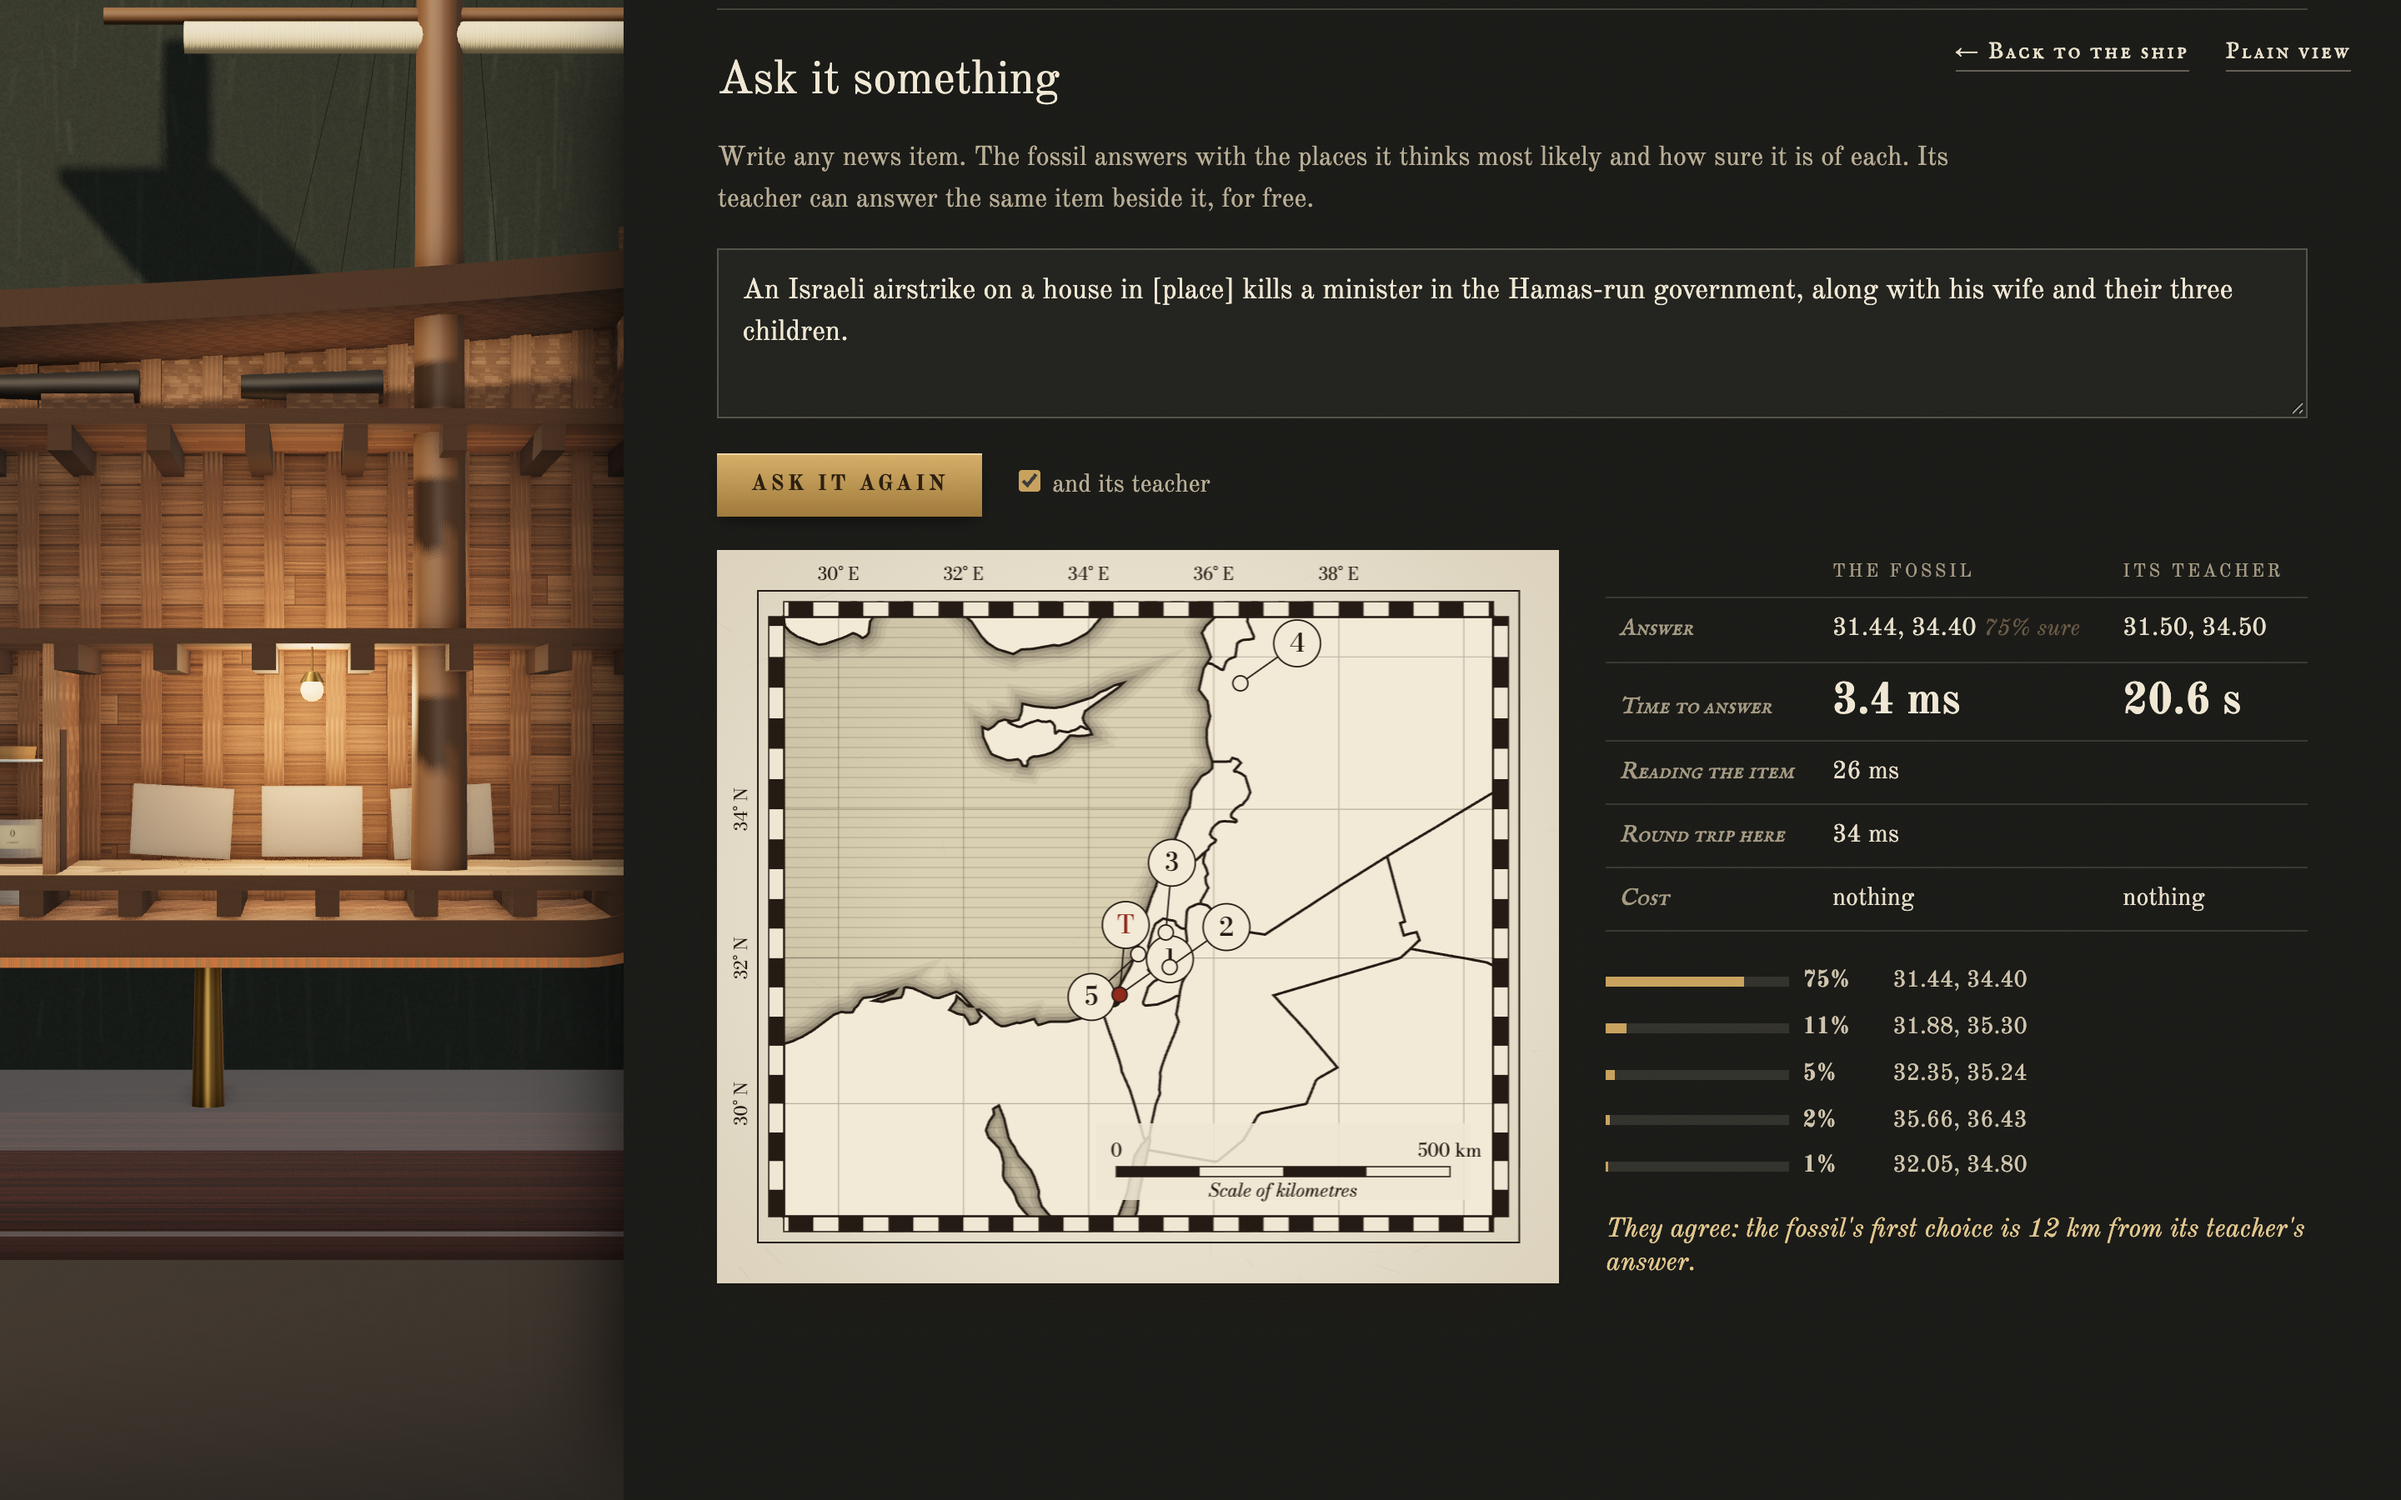
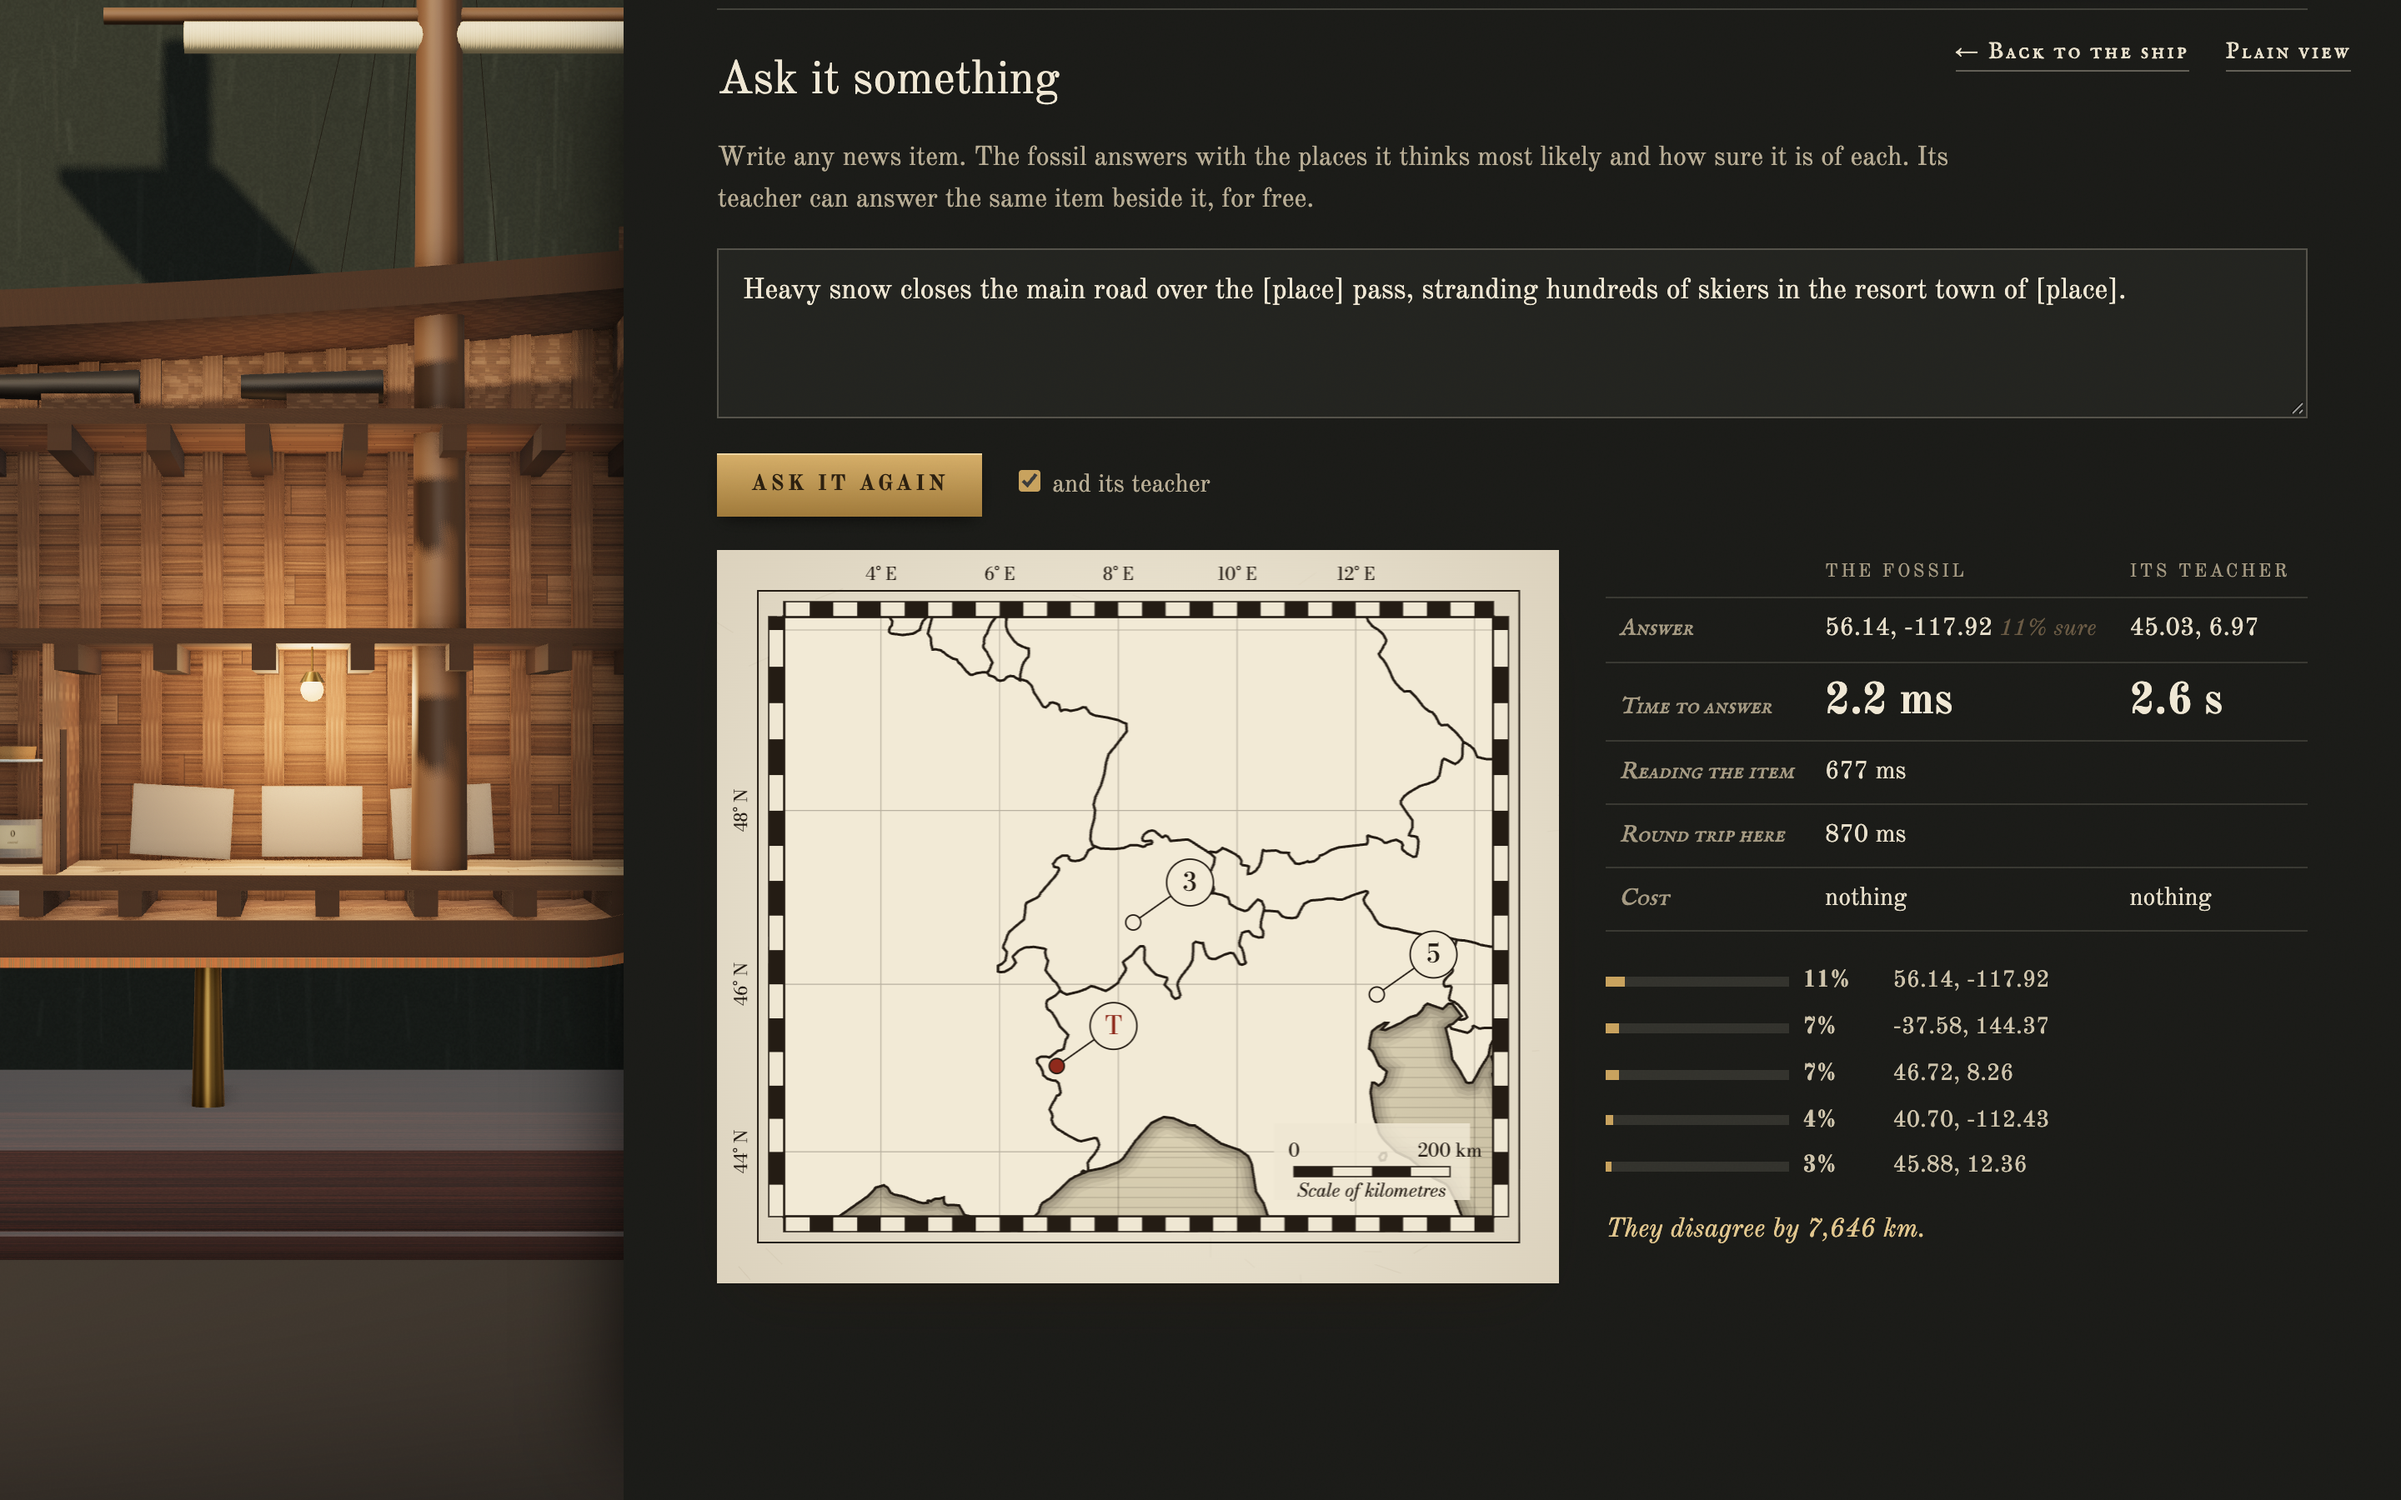
Neutral example items everywhere: a snowstorm for the fossil, the Lake Lure dam warning on the chart; README carries the calculator and local fix-test results as they stand

diff --git a/app/src/fossilroom.ts b/app/src/fossilroom.ts
@@ -43,7 +43,7 @@ export async function fossilRoom(el: HTMLElement, c: Ctx) {
     <section class="ask-fossil" data-i="${i}">
       <h2>Ask it something</h2>
       <p>Write any news item. The fossil answers with the places it thinks most likely and how sure it is of each. Its teacher can answer the same item beside it${f.teacher_usd > 0 ? `, for about ${money(f.teacher_usd)}` : ', for free'}.</p>
-      <form class="ask-form"><textarea name="text" rows="3" placeholder="An Israeli airstrike on a house in [place] kills a minister in the Hamas-run government.">An Israeli airstrike on a house in [place] kills a minister in the Hamas-run government, along with his wife and their three children.</textarea>
+      <form class="ask-form"><textarea name="text" rows="3" placeholder="Heavy snow closes the main road over the [place] pass, stranding hundreds of skiers in the resort town of [place].">Heavy snow closes the main road over the [place] pass, stranding hundreds of skiers in the resort town of [place].</textarea>
         <div class="row"><button type="submit" class="ask-btn">Ask the fossil</button><label><input type="checkbox" name="teacher" checked> and its teacher</label></div></form>
       <div class="answer-pair" hidden>
         <figure class="sheet"><canvas class="fossil-chart" role="img" aria-label="Where the fossil and its teacher answered"></canvas></figure>

diff --git a/README.md b/README.md
@@ -63,7 +63,7 @@ Everything here is from one real voyage, `v-2026-11-08-c5c0ba`: three generation
 
 **Generations two and three** were written by the designer. Its reasons point at real misses, quoted here:
 
-> The best agent missed by 3,500 km on the Jakarta item because it read 'accuses [place]' as Papua rather than the government. It missed by 9,400 km on the Swiss landslides by defaulting to China, and by 1,000 km on the Philippine ambush by guessing Mindanao.
+> The best agent missed by 3,500 km on the Jakarta item because it read 'accuses [place]' as Papua rather than the government. It missed by 9,400 km on the Swiss landslides by defaulting to China.
 
 The voyage's best is generation three's *Sonnet self-check, slot audit* at 79 (range 69 to 87), bred to catch exactly those traps with a second look. But the plain result is a plateau, not a climb. *Sonnet, plans first* was kept unchanged through all three generations and scored 70, then 78, then 76 on the same design. With 40 items, a score moves about 8 points from noise alone, so no bred child has yet clearly beaten its parent. Beagle shows the ranges, and only calls a win when they separate. What did move was the field: by generation three, six Sonnet designs sat between 72 and 79, where generation one had two Sonnets at 70 and 71.
 
@@ -71,7 +71,7 @@ The voyage's best is generation three's *Sonnet self-check, slot audit* at 79 (r
 
 **Two earlier voyages were withdrawn,** and the log keeps them with the reason. The first used an easier arena that named the places, and every agent scored near the top. The second, $21.92 of runs, had a fault the final review found: agents written to see no worked examples were shown eight. Its results described agents that did not match their designs, so they were thrown out and the voyage above was run from scratch.
 
-<img src="docs/media/chart-room.jpg" alt="The chart room: a list of news items, hardest first; an engraved chart of the Levant with every agent's answer numbered around a red star where the item really happened; a table of how far off each agent was" />
+<img src="docs/media/chart-room.jpg" alt="An Admiralty-style chart of the Lake Lure dam warning: every agent's answer numbered around a red star on Rutherford County, North Carolina, with a degree scale, compass rose and scale of kilometres" />
 
 ## The other arenas
 
@@ -85,7 +85,11 @@ Each raced on 2026-11-09, one generation each, with its controls beside it.
 
 **What day of the week was it?** (an arena defined from a folder, $4.36, 30 dates). Every Claude agent, and the one-call control, named all 30 weekdays. The local models managed 10 to 20. So a second voyage raced only local agents, with the designer still free to breed them, to ask whether a designer can teach an 8B model to do it ($3.17 for four generations, nearly all of it the Claude control).
 
-It cannot, by instruction alone. The designer's reading of the failures was exact: "The coder model answered Friday on every practice item, which means it wasn't computing anything." It taught the doomsday method, then a numeric template "reducing diff mod 7 early to keep sums small", then voting, then lookup tables "checked against the practice truths" to leave "one addition to do". The best local agent went 23, 20, 30, 27: inside the noise each time. The method was right and the sums were wrong. A third voyage gives the same dates a calculator tool to see whether that is the missing piece.
+It cannot, by instruction alone. The designer's reading of the failures was exact: "The coder model answered Friday on every practice item, which means it wasn't computing anything." It taught the doomsday method, then a numeric template "reducing diff mod 7 early to keep sums small", then voting, then lookup tables "checked against the practice truths" to leave "one addition to do". The best local agent went 23, 20, 30, 27: inside the noise each time. The method was right and the sums were wrong.
+
+So a third voyage gave the same dates a calculator, a built-in tool any arena can ask for. Offered it, the designer reached for it at once, writing Sakamoto's weekday formula into every child and having the model hand each sum to the calculator. On the 5 to 7 dates each had finished before a Claude usage limit stopped the race, those children scored 33 to 71, against their parent's 14 on the same voyage. That is too few dates to call, and the voyage is left unfinished; but it is the first time a local model has looked able to do it, and it took a tool, not a better instruction.
+
+A local-only fix-test voyage was raced too: the local models mended almost nothing (Llama 8B 4, Qwen coder 0), and it was stopped before breeding.
 
 <img src="docs/media/weekday-reasons.jpg" alt="The lineage page's reasons, by generation: the designer teaching local models the doomsday method, numeric templates and voting, each child's score beside its reason" />
 
@@ -106,7 +110,7 @@ The home screen is the model. Point at a room, or its label, and the camera goes
 
 Every number on every screen comes from the local API. A browser test checks 33 things against it, including running every tool above. Plain view explains every number in words; lab view adds cost, time, ranks and raw answers. Every term of art has its meaning a hover away.
 
-<img src="docs/media/fossils.jpg" alt="The fossil locker at night: asked about an airstrike item, the fossil's five likeliest places on a chart beside its teacher's answer, the fossil in 3.4 ms against its teacher's 20.6 s, twelve kilometres apart" />
+<img src="docs/media/fossils.jpg" alt="The fossil locker at night: asked about a snowstorm closing a mountain pass, the fossil is only 11% sure and its first choice lands far from its teacher's answer in the Alps; the fossil answers in 2.2 ms, its teacher in 2.6 s" />
 
 <img src="docs/media/hold.jpg" alt="The hold: a shelf of glass jars, each filled to its agent's score with the likely range etched on the glass; below, a pair of brass scales weighing two agents" />
 
